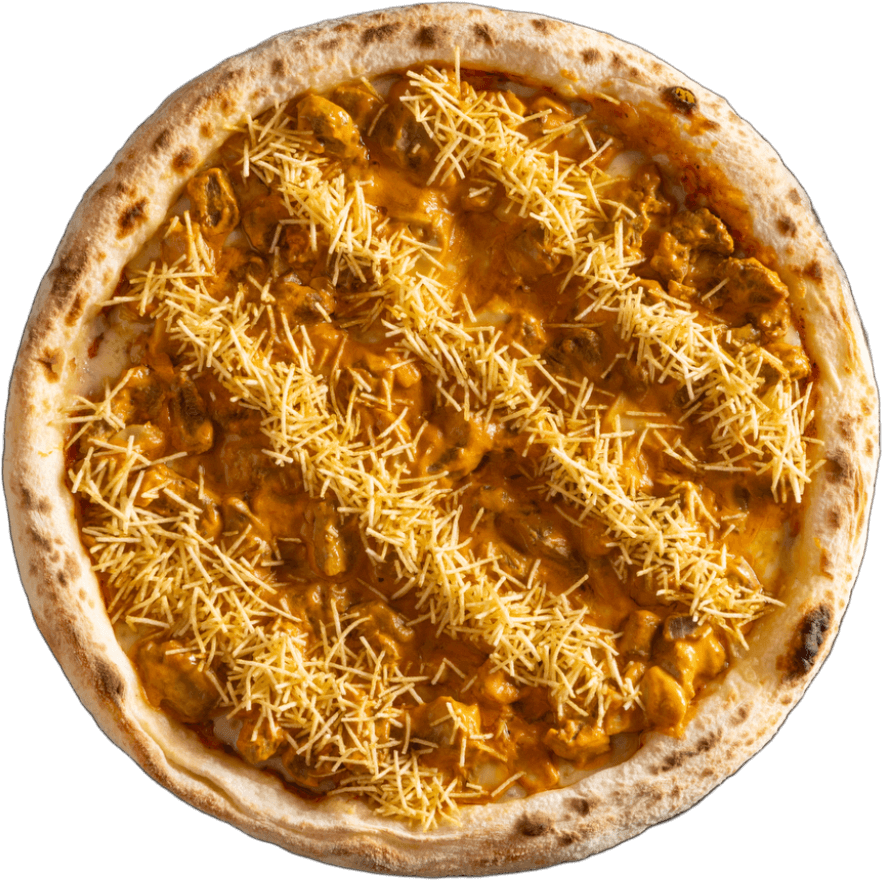
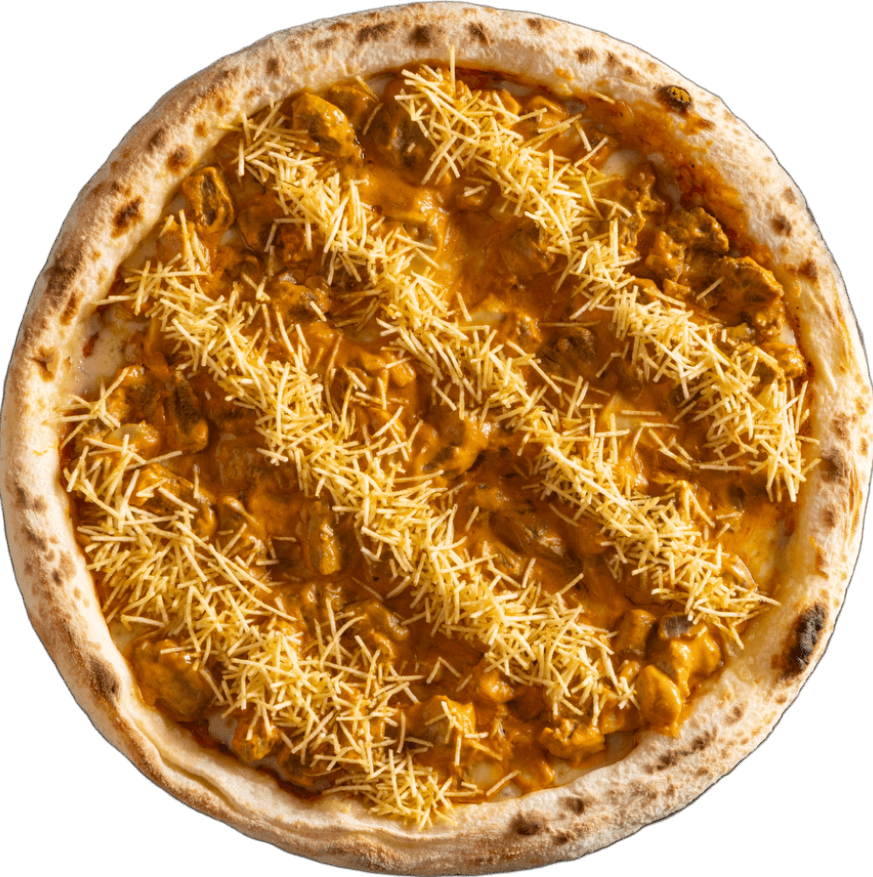
Add files via upload

diff --git a/script.js b/script.js
@@ -1,0 +1,84 @@
+const imagem = document.getElementById("visualizar");
+const nomeP = document.getElementById("nomeP");
+const info = document.getElementById("descricao");
+const ingred = document.getElementById("ingredientes");
+
+const card1 = document.getElementById("opcao-Calabresa");
+
+card1.addEventListener("click", () => {
+    imagem.src = "image_calabresa_001.png";
+    nomeP.textContent = "Pizza de Calabresa";
+    info.textContent = "Uma clássica irresistível que conquista desde a primeira fatia. Nossa Pizza Calabresa é feita sobre massa artesanal de fermentação lenta, generosamente coberta com molho de tomate San Marzano temperado com manjericão fresco. Fatias finas de linguiça calabresa defumada são distribuídas com fartura, acompanhadas de cebola roxa em rodelas e azeitonas pretas selecionadas. Finalizada com mussarela de primeira qualidade, gratinada no forno à lenha até atingir a cor dourada perfeita.";
+    ingred.textContent = "Ingredientes: massa artesanal, molho de tomate, mussarela, linguiça calabresa defumada, cebola roxa, azeitonas pretas, manjericão, azeite de oliva.";
+})
+
+
+const card2 = document.getElementById("opcao-Costela");
+
+card2.addEventListener("click", () => {
+    imagem.src = "image_costela_002.png";
+    nomeP.textContent = "Pizza de Costela";
+    info.textContent = "Para os amantes de sabores intensos e reconfortantes. Nossa Pizza Costela é construída sobre uma massa artesanal de borda alta e crocante, coberta com um generoso molho de tomate levemente adocicado. O destaque fica por conta da costela bovina desfiada, cozida lentamente por horas até atingir uma maciez que derrete na boca, com aquele sabor defumado inconfundível. Complementada com mussarela cremosa, pimentões coloridos e um toque de alho dourado, cada fatia é uma experiência completa.";
+    ingred.textContent = "Ingredientes: massa artesanal, molho de tomate, mussarela, costela bovina desfiada, pimentão vermelho e amarelo, alho dourado, cebola caramelizada, salsinha, azeite de oliva.";
+})
+
+const card3 = document.getElementById("opcao-Mussarela");
+
+card3.addEventListener("click", () => {
+    imagem.src = "image_mussarella_003.png";
+    nomeP.textContent = "Pizza de Mussarela";
+    info.textContent = "A rainha das pizzas, simples e perfeita. Nossa Pizza Mussarela celebra a elegância dos ingredientes de qualidade: massa artesanal fininha, molho de tomate San Marzano com toque de manjericão e uma cobertura generosa de mussarela fresca, gratinada até formar aquela camada dourada e borbulhante irresistível. Um clássico atemporal que agrada a todos.";
+    ingred.textContent = "Ingredientes: massa artesanal, molho de tomate, mussarela fresca, manjericão, azeite de oliva, oregano.";
+})
+
+const card4 = document.getElementById("opcao-Escarola");
+
+card4.addEventListener("click", () => {
+    imagem.src = "image_escarola_004.png";
+    nomeP.textContent = "Pizza de Escarola";
+    info.textContent = "Sofisticada e cheia de personalidade. Nossa Pizza Escarola traz uma combinação surpreendente e equilibrada: folhas de escarola refogadas no alho e azeite, com aquele leve amargor característico que harmoniza perfeitamente com a mussarela cremosa. Finalizada com azeitonas pretas e um fio de azeite extra virgem, é a escolha certa para quem busca algo diferente e refinado.";
+    ingred.textContent = "Ingredientes: massa artesanal, molho de tomate, mussarela, escarola refogada, alho, azeitonas pretas, azeite extra virgem, pimenta-do-reino.";
+})
+
+const card5 = document.getElementById("opcao-Carbonara");
+
+card5.addEventListener("click", () => {
+    imagem.src = "image_carbonara_005.png";
+    nomeP.textContent = "Pizza de Carbonara";
+    info.textContent = "Uma viagem à Itália em cada fatia. Inspirada no clássico macarrão romano, nossa Pizza Carbonara substitui o molho de tomate por um cremoso molho à base de ovos e queijo parmesão curado. Coberta com tiras de bacon crocante, cebola caramelizada e generosa quantidade de mussarela, é finalizada com pimenta-do-reino moída na hora. Intensa, cremosa e absolutamente irresistível.";
+    ingred.textContent = "Ingredientes: massa artesanal, molho carbonara (ovos, parmesão, creme de leite), mussarela, bacon, cebola caramelizada, pimenta-do-reino, salsinha.";
+})
+
+const card6 = document.getElementById("opcao-4queijos");
+
+card6.addEventListener("click", () => {
+    imagem.src = "image_4queijos_006.png";
+    nomeP.textContent = "Pizza de 4 Queijos";
+    info.textContent = "O paraíso dos amantes de queijo. Nossa Pizza 4 Queijos reúne uma seleção harmoniosa de queijos cuidadosamente escolhidos, cada um contribuindo com seu sabor e textura únicos. A combinação de mussarela cremosa, gorgonzola marcante, parmesão curado e catupiry aveludado forma uma cobertura rica e encorpada que derrete uniformemente sobre a massa artesanal. Um espetáculo de sabores que se complementam a cada mordida.";
+    ingred.textContent = "Ingredientes: massa artesanal, mussarela, gorgonzola, parmesão, catupiry, azeite de oliva, orégano.";
+})
+
+const card7 = document.getElementById("opcao-Chilli");
+
+card7.addEventListener("click", () => {
+    imagem.src = "image_chilli_007.png";
+    nomeP.textContent = "Pizza de Chilli";
+    info.textContent = "Para quem gosta de emoção no paladar. Nossa Pizza Chilli é uma explosão de sabor com personalidade marcante: carne moída temperada com pimenta chilli, cominho e páprica defumada, sobre molho de tomate encorpado e mussarela derretida. Finalizada com jalapeños em rodelas, cebola roxa e um fio de cream cheese, entrega aquele calor agradável que aquece por dentro sem abrir mão do sabor.";
+    ingred.textContent = "Ingredientes: massa artesanal, molho de tomate, mussarela, carne moída temperada, pimenta chilli, jalapeño, cebola roxa, cream cheese, páprica defumada, cominho.";
+})
+
+const card8 = document.getElementById("opcao-Carne");
+
+card8.addEventListener("click", () => {
+    imagem.src = "image_carne_008.png";
+    nomeP.textContent = "Pizza de Carne";
+    info.textContent = "Robusta, suculenta e feita para saciar. Nossa Pizza Carne é a escolha dos apreciadores de sabores intensos: carne moída temperada com ervas frescas e alho, distribuída com fartura sobre o molho de tomate artesanal e mussarela de alta qualidade. Cebola ao molho, pimentão e um toque de chimichurri finalizam essa pizza que remete ao melhor churrasco em cada fatia.";
+    ingred.textContent = "Ingredientes: massa artesanal, molho de tomate, mussarela, carne moída, cebola, pimentão, alho, chimichurri, salsinha, azeite de oliva.";
+})
+
+const scroll = document.querySelector('.carrousel')
+
+scroll.addEventListener("wheel", (e) => {
+    e.preventDefault();
+    scroll.scrollLeft += e.deltaY
+})

diff --git a/index.html b/index.html
@@ -22,12 +22,58 @@
         </div>
     </section>
     <section id="cardapio">
-        <div>
-            <div id="opção-Calabresa">
-                <img src="image_calabresa_001.png" alt="calabresa">
-                <h2></h2>
+        <h1 id="texto3">Nosso Cardápio</h1>
+        <div class="info">
+            <img src="image_calabresa_001.png" alt="visual" id="visualizar">
+            <div id="texto">
+                <h1 id="nomeP">Pizza de Calabresa</h1>
+                <h2 id="descricao">Uma clássica irresistível que conquista desde a primeira fatia. Nossa Pizza Calabresa é feita sobre massa artesanal de fermentação lenta, generosamente coberta com molho de tomate San Marzano temperado com manjericão fresco. Fatias finas de linguiça calabresa defumada são distribuídas com fartura, acompanhadas de cebola roxa em rodelas e azeitonas pretas selecionadas. Finalizada com mussarela de primeira qualidade, gratinada no forno à lenha até atingir a cor dourada perfeita.</h2>
+                <h2 id="ingredientes">Ingredientes: massa artesanal, molho de tomate, mussarela, linguiça calabresa defumada, cebola roxa, azeitonas pretas, manjericão, azeite de oliva.</h2>
+            </div>
+        </div>
+        <div class="carrousel">
+            <div id="opcao-Calabresa" class="card">
+                <img src="image_calabresa_001.png" alt="calacad">
+                <h2>Pizza Tradicional calabresa</h2>
+                <h3>molho de tomate, linguiça calabresa fatiada, cebola, mussarela, azeitonas pretas e orégano</h3>
+            </div>
+            <div id="opcao-Costela" class="card">
+                <img src="image_costela_002.png" alt="costecad">
+                <h2>Pizza de Costela</h2>
+                <h3>Costela bovina desfiada (assada ou defumada), queijo mussarela ou coalho, cebola (roxa ou crispy) e molho de tomate.</h3>
+            </div>
+            <div id="opcao-Mussarela" class="card">
+                <img src="image_mussarella_003.png" alt="mussacad">
+                <h2>Pizza de Mussarela</h2>
+                <h3>Molho de tomate, queijo mussarela, orégano e azeitonas.</h3>
+            </div>
+            <div id="opcao-Escarola" class="card">
+                <img src="image_escarola_004.png" alt="escacad">
+                <h2>Pizza de Escarola</h2>
+                <h3>Escarola refogada com alho e cebola, mussarela, molho de tomate, bacon, azeitonas, ricota</h3>
+            </div>
+            <div id="opcao-Carbonara" class="card">
+                <img src="image_carbonara_005.png" alt="carbocad">
+                <h2>Pizza de Carbonara</h2>
+                <h3>Molho carbonara, mussarela, bacon, cebola caramelizada, pimenta-do-reino, salsinha</h3>
+            </div>
+            <div id="opcao-4queijos" class="card">
+                <img src="image_4queijos_006.png" alt="4quecad">
+                <h2>Pizza de 4 Queijos</h2>
+                <h3>Mussarela, gorgonzola, parmesão, catupiry, azeite de oliva, orégano</h3>
+            </div>
+            <div id="opcao-Chilli" class="card">
+                <img src="image_chilli_007.png" alt="chillicad">
+                <h2>Pizza de Chilli</h2>
+                <h3>Molho de tomate, mussarela, carne moída temperada, pimenta chilli, jalapeño, cebola roxa, cream cheese, páprica defumada, cominho</h3>
+            </div>
+            <div id="opcao-Carne" class="card">
+                <img src="image_carne_008.png" alt="carnecad">
+                <h2>Pizza de Carne</h2>
+                <h3>Molho de tomate, mussarela, carne moída, cebola, pimentão, alho, chimichurri, salsinha, azeite de oliva</h3>
             </div>
         </div>
     </section>
+    <script src="script.js"></script>
 </body>
 </html>

diff --git a/style.css b/style.css
@@ -6,7 +6,7 @@
 #fundoI{
     display: grid;
     object-fit: none;
-    grid-template-columns: minmax(33%, 300px) 33%;
+    grid-template-columns: minmax(31%, 300px) 33%;
 }
 
 .texto{
@@ -29,7 +29,7 @@
 }
 
 #fundoI h3{
-    margin-top: 17%;
+    margin-top: 20%;
     grid-row: 1;
     grid-column: 2;
     justify-self: center;
@@ -66,11 +66,12 @@ nav button{
     grid-column: 2;
     width: 310%;
     height: auto;
+    margin-left: 8%;
 }
 
 #fundoVerde{
     background-color: #295924;
-    height: 1700px;
+    height: 1460px;
     grid-row: 1;
     grid-column: 1;
 }
@@ -82,7 +83,7 @@ nav button{
 }
 #fundoVermelho{
     background-color: #B82F2F;
-    height: 1700px;
+    height: 1460px;
     grid-row: 1;
     grid-column: 3;
 }
@@ -91,4 +92,67 @@ body{
     padding: 0;
     margin: 0;
     background-color: #295924;
+}
+
+#cardapio #texto3{
+    color: #f1f1f1;
+    margin-left: 10%;
+    font-size: 700%;
+}
+
+.carrousel{
+    align-self: center;
+    padding-bottom: 10%;
+    display: flex;
+    gap: 50px;
+    overflow-x:scroll;
+    scrollbar-width: none;
+}
+
+.card{
+    padding-left: 20px;
+    position: relative;
+    overflow: visible;
+    display: flex;
+    flex-direction: column;
+    width: 200px;
+    background-color: #f1f1f1;
+    border-radius: 10px;
+    font-family: "Italiana";
+    height: 300px;
+    flex-shrink: 0;
+}
+
+.card img{
+    position: absolute;
+    width: 150px;
+    top: -13px;
+    right: -60px;
+    object-fit: cover;
+}
+
+.card h2{
+    width: 20px;
+}
+
+.info{
+    font-family: "Italiana";
+    display: flex;
+    flex-wrap: wrap;
+    color: #f1f1f1;
+    margin-bottom: 50px;
+}
+
+.info h2{
+    width: 700px;
+}
+
+.info img{
+    width: 600px;
+    height: auto;
+}
+
+#texto{
+    display: flex;
+    flex-direction: column;
 }
